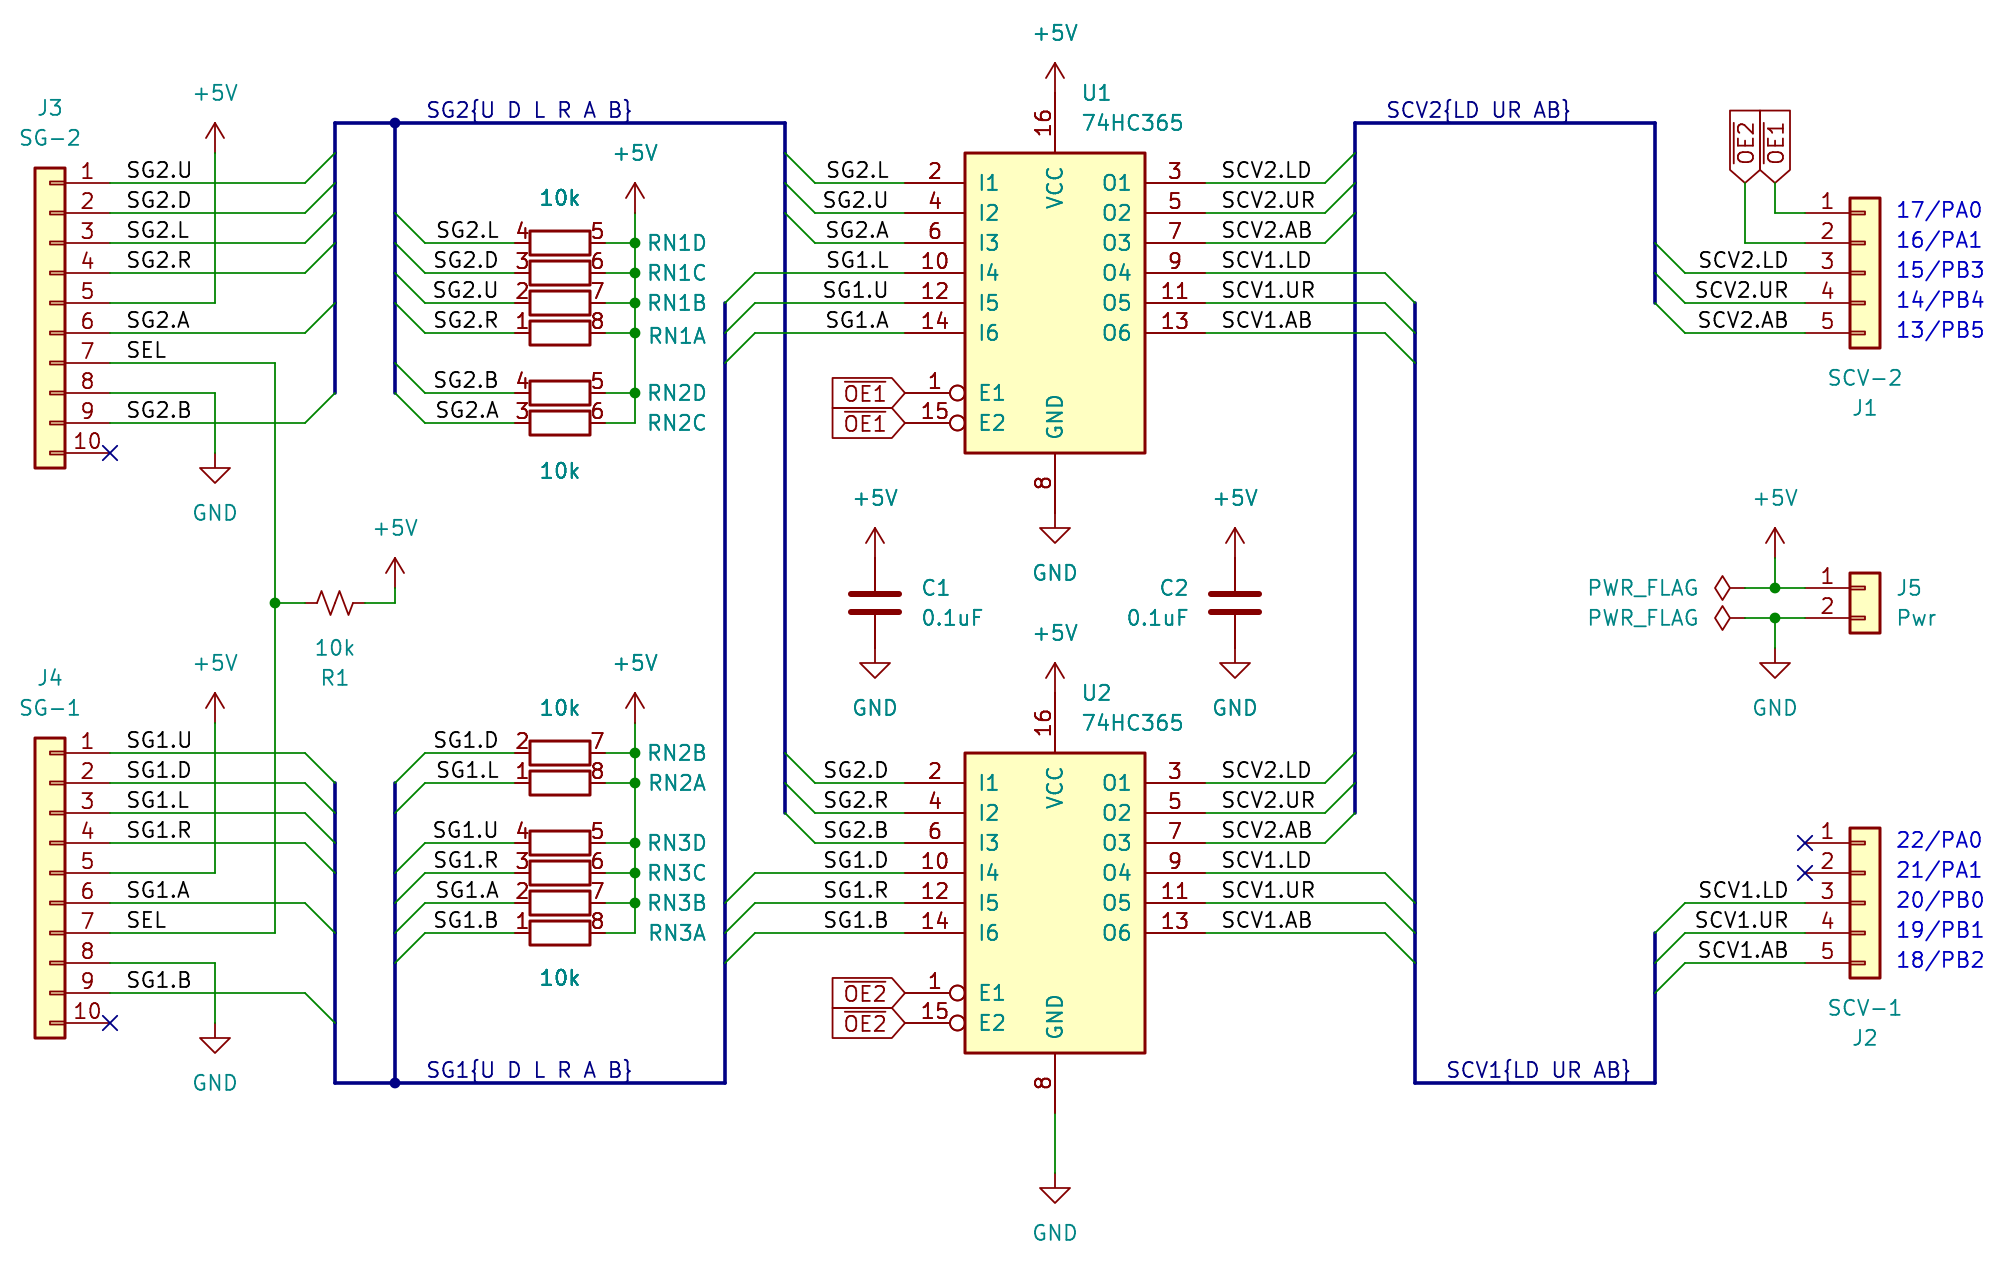
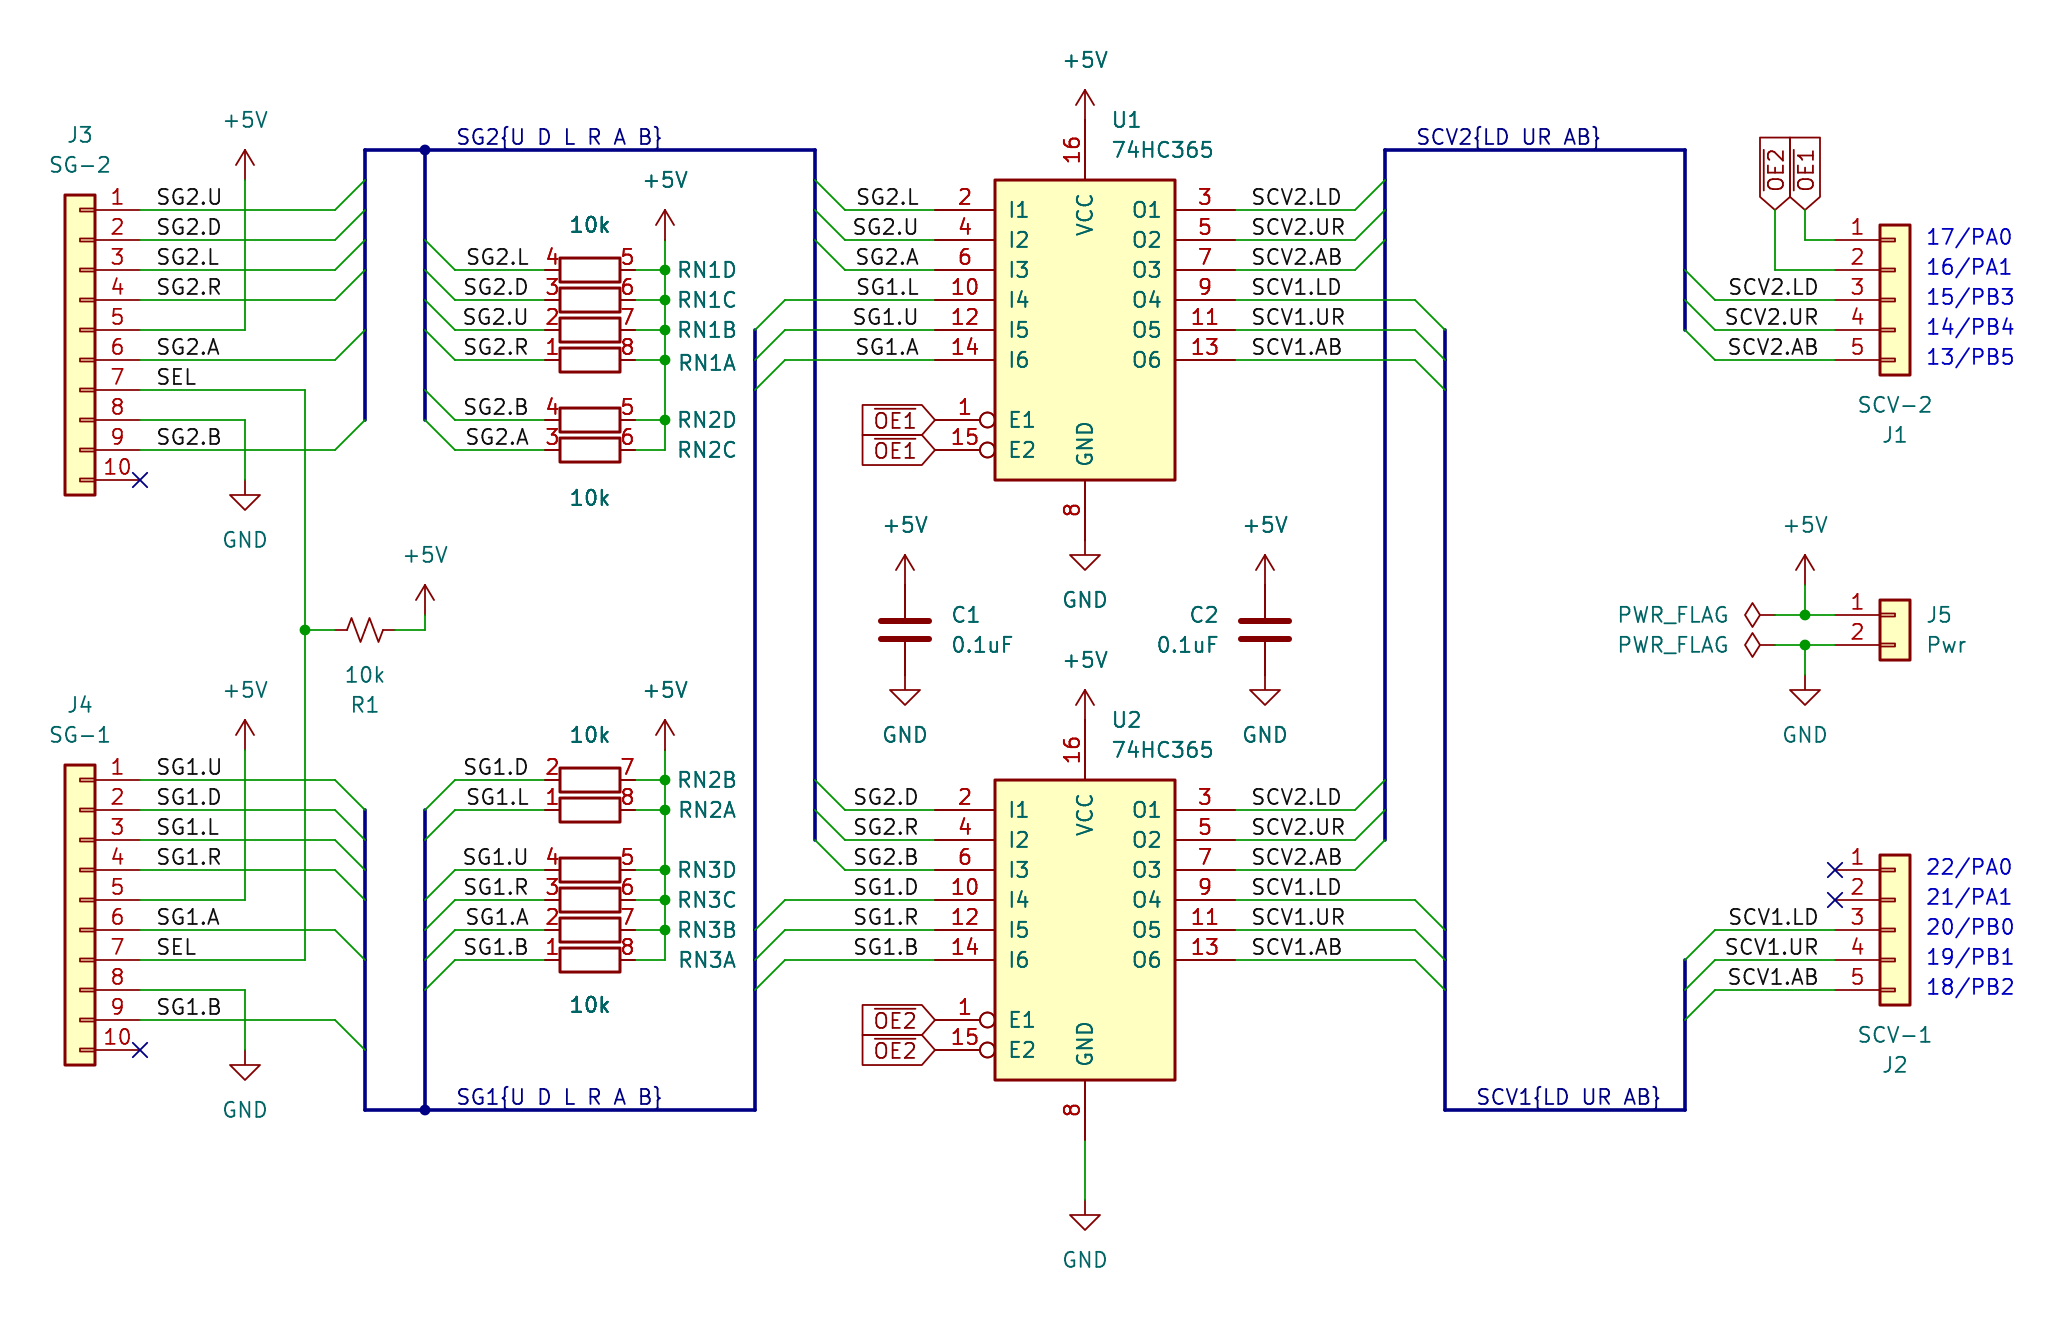
Add CI

diff --git a/README.rst b/README.rst
@@ -1,6 +1,10 @@
 Super Cassette Vision with Sega controllers
 ===========================================
 
+.. image:: doc/pcb.png
+   :alt: Adapter PCB
+   :width: 400
+
 This is an adapter board to connect early Sega controllers (SG-1000, SMS, Mega Drive) to an Epoch Super Cassette Vision console.
 
 Schematic
